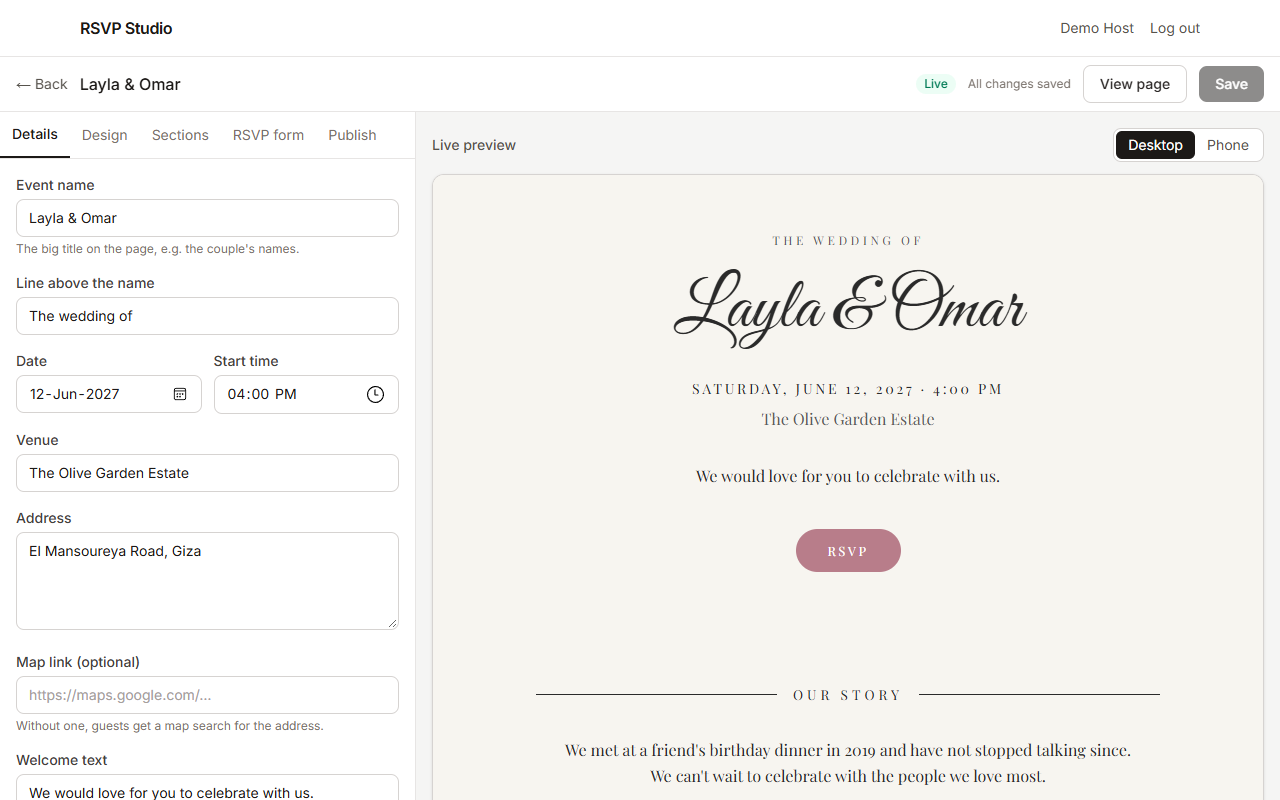
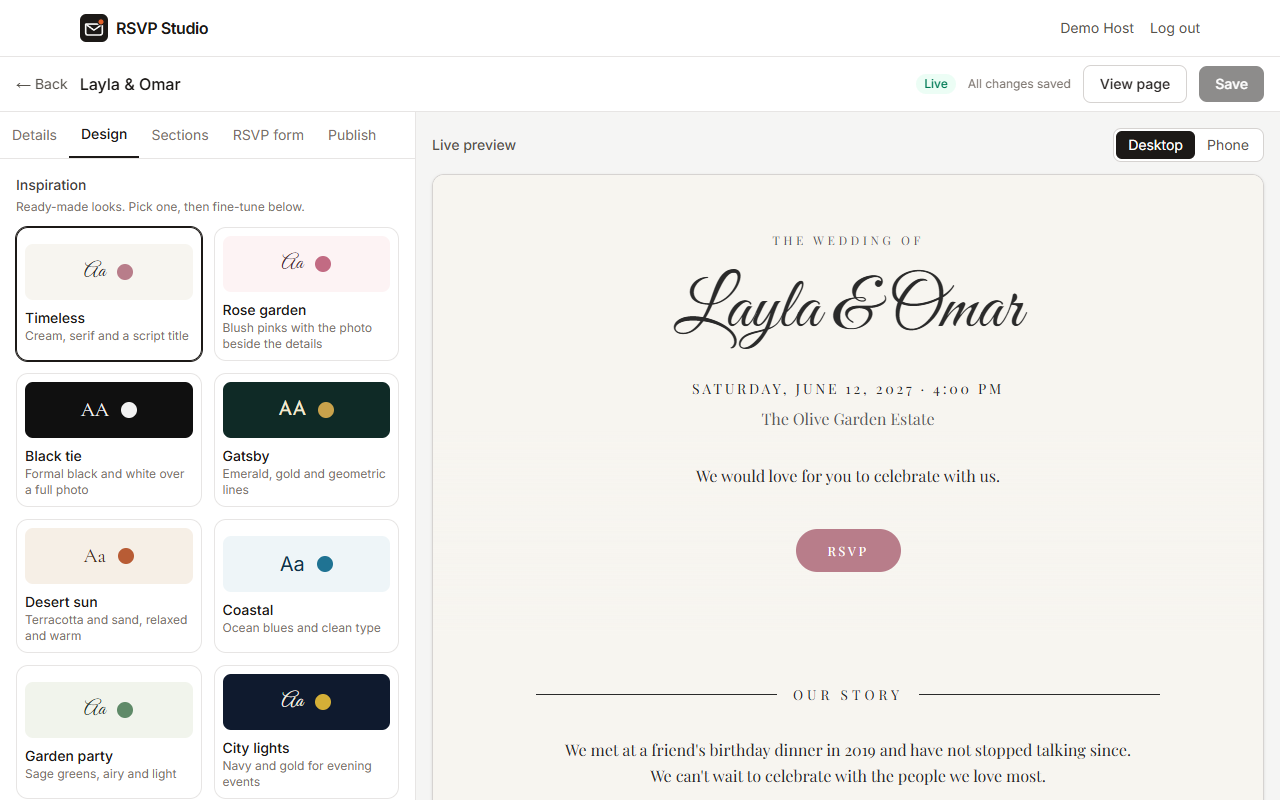
Refresh screenshots and seed a demo guest list

diff --git a/prisma/seed.ts b/prisma/seed.ts
@@ -3,6 +3,7 @@ import { randomBytes } from "node:crypto";
 import { PrismaClient } from "@prisma/client";
 import { hashPassword } from "../src/lib/password";
 import { buildFromTemplate } from "../src/lib/events/templates";
+import { newToken } from "../src/lib/events/tokens";
 
 /**
  * Creates a demo host with a published wedding and sample replies, so the
@@ -105,9 +106,32 @@ async function main() {
       message: "Sorry to miss it, sending love.",
     },
   ];
-  await prisma.reply.createMany({
-    data: replies.map((reply) => ({ ...reply, eventId: event.id })),
-  });
+  // A guest list: everyone who replied was invited, plus two still waiting.
+  const guests = [
+    ...replies.map((r) => ({
+      name: r.name,
+      email: r.email,
+      maxGuests: r.guestCount || 1,
+    })),
+    { name: "Dina Farouk", email: "dina@example.com", maxGuests: 2 },
+    { name: "Tarek Nabil", email: null, maxGuests: 1 },
+  ];
+  for (const guest of guests) {
+    const invite = await prisma.invite.create({
+      data: { ...guest, eventId: event.id, token: newToken() },
+    });
+    const reply = replies.find((r) => r.name === guest.name);
+    if (reply) {
+      await prisma.reply.create({
+        data: {
+          ...reply,
+          eventId: event.id,
+          inviteId: invite.id,
+          editToken: newToken(),
+        },
+      });
+    }
+  }
 
   const birthday = buildFromTemplate("birthday");
   await prisma.event.create({

diff --git a/README.md b/README.md
@@ -6,7 +6,7 @@ Create a beautiful RSVP page for any event, share one link, and watch the replie
 
 Hosts sign up, pick a template, choose a theme and the sections they want, build their own RSVP questions and publish. Guests reply from any device. Every event has a dashboard with the headcount, answer breakdowns, a searchable list of replies and a CSV export.
 
-![Builder with live preview](docs/screenshots/builder.png)
+![Landing page](docs/screenshots/landing.png)
 
 ## Features
 
@@ -26,9 +26,11 @@ Hosts sign up, pick a template, choose a theme and the sections they want, build
 - **Accounts** with hashed passwords, signed session cookies and rate-limited sign-in; change your name or password, or delete your account and all of its data
 - **Duplicate an event** to start the next one from a copy
 
-| Public page                                    | Dashboard                                          |
-| ---------------------------------------------- | -------------------------------------------------- |
-| ![Event page](docs/screenshots/event-page.png) | ![Event dashboard](docs/screenshots/dashboard.png) |
+| Builder with live preview                          | Public event page                              |
+| -------------------------------------------------- | ---------------------------------------------- |
+| ![Builder](docs/screenshots/builder.png)           | ![Event page](docs/screenshots/event-page.png) |
+| **Event dashboard**                                | **Guest list**                                 |
+| ![Event dashboard](docs/screenshots/dashboard.png) | ![Guest list](docs/screenshots/guest-list.png) |
 
 ## Tech stack
 
